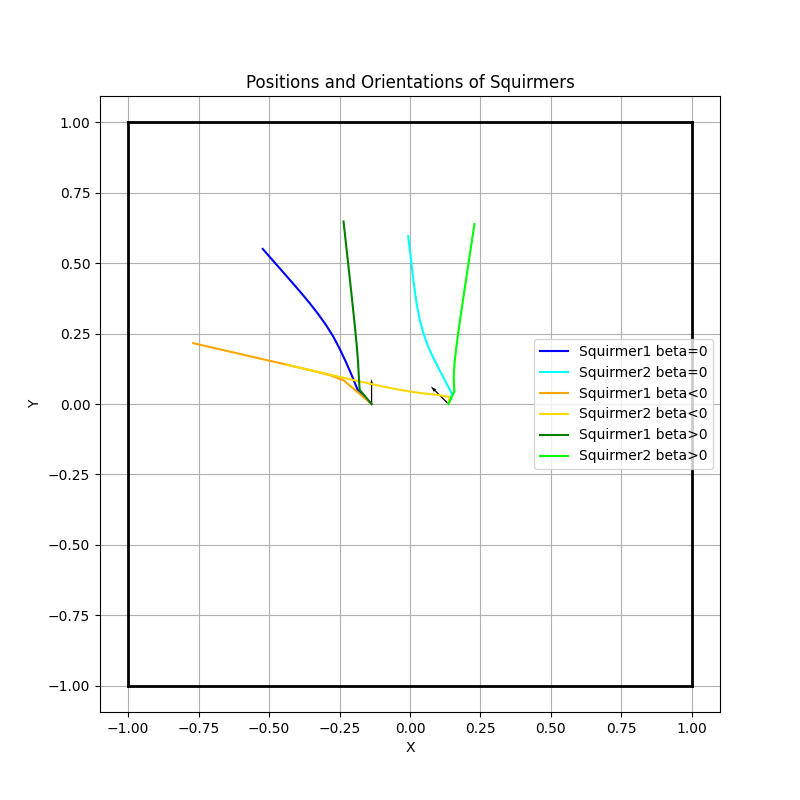
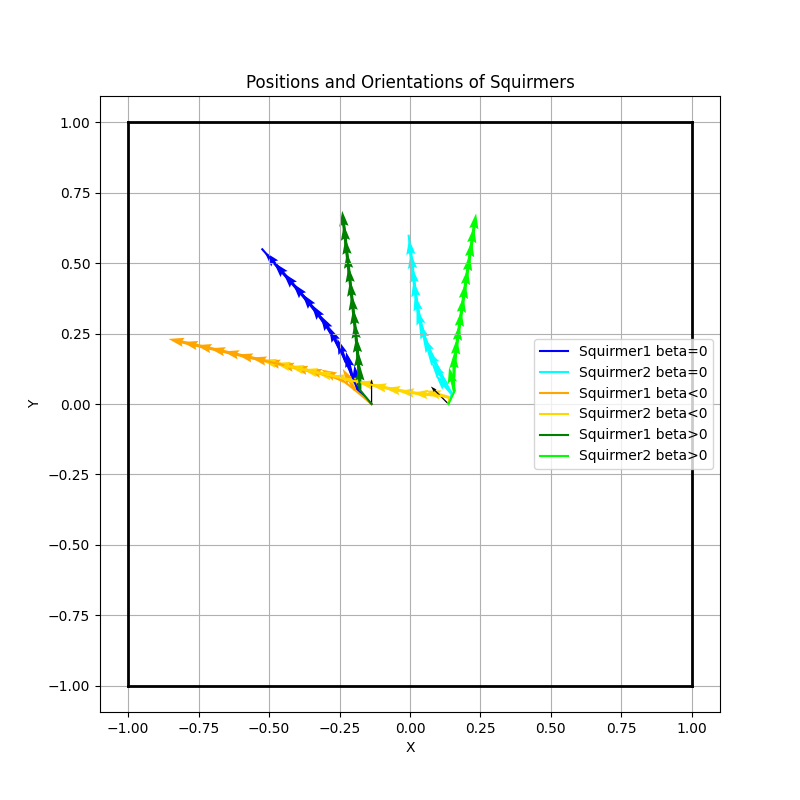
Added arrow when orientation affected, simulation done

diff --git a/Code/plot.py b/Code/plot.py
@@ -98,6 +98,17 @@ def plot_sim_6squirmers(R, historyb0, historybinf, historybsup, filename, dir='g
         plt.plot(squirmer1_x, squirmer1_y, label=f'Squirmer1 {history[1]}', color=color1)
         plt.plot(squirmer2_x, squirmer2_y, label=f'Squirmer2 {history[1]}', color=color2)
 
+        last_orient1 = squirmer1_orient[0]
+        last_orient2 = squirmer2_orient[0]
+
+        for i in range(len(squirmer1_orient)):
+            if squirmer1_orient[i] != last_orient1:
+                plt.quiver(squirmer1_x[i], squirmer1_y[i], np.cos(squirmer1_orient[i]), np.sin(squirmer1_orient[i]), color=color1, scale=25, width=0.005)
+                last_orient1 = squirmer1_orient[i]
+            if squirmer2_orient[i] != last_orient2:
+                plt.quiver(squirmer2_x[i], squirmer2_y[i], np.cos(squirmer2_orient[i]), np.sin(squirmer2_orient[i]), color=color2, scale=25, width=0.005)
+                last_orient2 = squirmer2_orient[i]
+
     #Plot initial orientations
     plt.quiver(squirmer2_x[0], squirmer2_y[0], np.cos(squirmer2_orient[0]), np.sin(squirmer2_orient[0]), color='black', scale=25, width=0.002)
     plt.quiver(squirmer1_x[0], squirmer1_y[0], np.cos(squirmer1_orient[0]), np.sin(squirmer1_orient[0]), color='black', scale=25, width=0.002)
@@ -153,6 +164,26 @@ def plot_sim_squirmer_border(R, histories, filename, dir='graphs'):
         plt.plot(squirmer2_x, squirmer2_y, label=f'Squirmer2 {label}', color=color2)
         plt.plot(squirmer3_x, squirmer3_y, label=f'Squirmer3 {label}', color=color3)
         plt.plot(squirmer4_x, squirmer4_y, label=f'Squirmer4 {label}', color=color4)
+
+        last_orient1 = squirmer1_orient[0]
+        last_orient2 = squirmer2_orient[0]
+        last_orient3 = squirmer3_orient[0]
+        last_orient4 = squirmer4_orient[0]
+
+        for i in range(len(squirmer1_orient)):
+            if squirmer1_orient[i] != last_orient1:
+                plt.quiver(squirmer1_x[i], squirmer1_y[i], np.cos(squirmer1_orient[i]), np.sin(squirmer1_orient[i]), color=color1, scale=25, width=0.005)
+                last_orient1 = squirmer1_orient[i]
+            if squirmer2_orient[i] != last_orient2:
+                plt.quiver(squirmer2_x[i], squirmer2_y[i], np.cos(squirmer2_orient[i]), np.sin(squirmer2_orient[i]), color=color2, scale=25, width=0.005)
+                last_orient2 = squirmer2_orient[i]
+            if squirmer3_orient[i] != last_orient3:
+                plt.quiver(squirmer3_x[i], squirmer3_y[i], np.cos(squirmer3_orient[i]), np.sin(squirmer3_orient[i]), color=color3, scale=25, width=0.005)
+                last_orient3 = squirmer3_orient[i]
+            if squirmer4_orient[i] != last_orient4:
+                plt.quiver(squirmer4_x[i], squirmer4_y[i], np.cos(squirmer4_orient[i]), np.sin(squirmer4_orient[i]), color=color4, scale=25, width=0.005)
+                last_orient4 = squirmer4_orient[i]
+
 
     #Plot initial orientations
     plt.quiver(squirmer1_x[0], squirmer1_y[0], np.cos(squirmer1_orient[0]), np.sin(squirmer1_orient[0]), color='black')

diff --git a/Code/run.py b/Code/run.py
@@ -42,8 +42,8 @@ ds = 2**(7./6)*a
 #viscovity parameter
 mu = 0.01
 
-#sim_squirmer_border(xs, ys, orients, a, betas, v0,  R, dt, dt_out, T, Es, ds, mu, Eo, lnEps_cr, 'bordersimtest', dir='graphs')
+sim_squirmer_border(xs, ys, orients, a, betas, v0,  R, dt, dt_out, T, Es, ds, mu, Eo, lnEps_cr, 'bordersimtest', dir='graphs')
 
 #sim_intercating_squirmers(x1, y1, x2, y2, orient1, orient2, a, beta0, betainf, betasup, v0,  R, dt, dt_out, T, Es, ds, mu, Eo, lnEps_cr, file, dir='graphs')
 
-sim_vid_interact_squir(x1, y1, x2, y2, orient1, orients[0], a, betas[0], v0, R, dt, dt_out, T, Es, ds, mu, Eo, lnEps_cr, 'sim_interact_sq', dir='videos', gif=True)
+#sim_vid_interact_squir(x1, y1, x2, y2, orient1, orients[0], a, betas[0], v0, R, dt, dt_out, T, Es, ds, mu, Eo, lnEps_cr, 'sim_interact_sq', dir='videos', gif=True)
